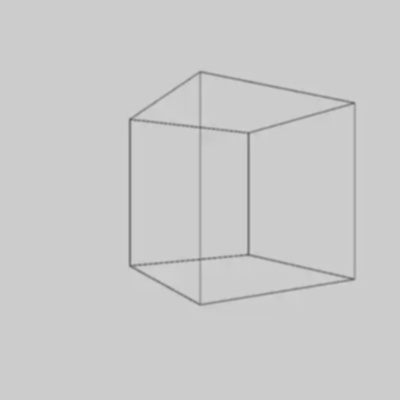
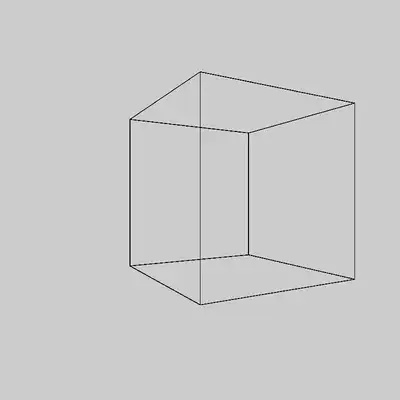
I don't think this method works well at all angles

diff --git a/kuribayashi2019.py b/kuribayashi2019.py
@@ -1,6 +1,7 @@
 import cv2
 import numpy as np
-from sklearn.cluster import AgglomerativeClustering
+from sklearn.cluster import AgglomerativeClustering, KMeans
+from scipy.spatial.distance import pdist, squareform
 
 
 # Step 1: Load the original image
@@ -17,7 +18,7 @@ cv2.imwrite('2_grayscale.jpg', gray_img)
 # cv2.imwrite('3_contrast_enhanced.jpg', equalized_img)
 
 # Apply Gaussian blur to smooth out the noise
-gray = cv2.GaussianBlur(gray_img, (5, 5), 0)
+gray = cv2.GaussianBlur(gray_img, (1, 1), 0)
 cv2.imwrite('3_gaussian_blur.jpg', gray)
 
 # Step 4: Detect edges using the Canny edge detector
@@ -37,16 +38,70 @@ angles = np.array([line_angle(line) for line in lines])
 # Normalize angles to [0, 180) degrees to treat opposite directions the same
 normalized_angles = np.abs(angles) % 180
 
-# Cluster based on normalized angles
-clustering = AgglomerativeClustering(n_clusters=3)  # Assuming 3 main directions: width, height, depth
-labels = clustering.fit_predict(normalized_angles.reshape(-1, 1))
-
 # Map labels to colors (fixed colors for clarity)
-colors = [(0, 0, 255), (255, 0, 0), (0, 255, 0)]  # Red, Blue, Green for width, height, depth
+colors = [
+    (0, 0, 255),   # Blue
+    (255, 0, 0),   # Red
+    (0, 255, 0),   # Green
+    (0, 255, 255), # Cyan
+    (255, 0, 255), # Magenta
+    (255, 255, 0), # Yellow
+    (255, 165, 0), # Orange
+    (128, 0, 128), # Purple
+    (0, 0, 0)      # Black
+]
+
+kmeans = KMeans(n_clusters=3)  # 3 clusters for width, height, depth
+labels = kmeans.fit_predict(angles.reshape(-1, 1))
+
+# Map labels to colors
+colors = [(0, 0, 255), (255, 0, 0), (0, 255, 0)]  # Example: Blue for width, Red for height, Green for depth
 
 # Draw lines on the image with colors based on their cluster
 for line, label in zip(lines, labels):
     x1, y1, x2, y2 = line[0]
-    cv2.line(original_img, (x1, y1), (x2, y2), colors[label], 2)
+    cv2.line(original_img, (x1, y1), (x2, y2), colors[label], 1)
 
 cv2.imwrite('6_lines_first_clustered.jpg', original_img)
+
+# Cluster based on normalized angles
+clustering = AgglomerativeClustering(n_clusters=3)  # Assuming 3 main directions: width, height, depth
+labels = clustering.fit_predict(normalized_angles.reshape(-1, 1))
+
+# Function to calculate the perpendicular distance from a point to a line segment
+def point_to_line_distance(point, line):
+    # Assuming line is given by two points (x1, y1) and (x2, y2)
+    x1, y1, x2, y2 = line
+    x0, y0 = point
+    numerator = abs((y2 - y1) * x0 - (x2 - x1) * y0 + x2 * y1 - y2 * x1)
+    denominator = ((y2 - y1)**2 + (x2 - x1)**2)**0.5
+    if denominator == 0:
+        return 0  # To avoid division by zero
+    return numerator / denominator
+
+# Adjusted function to calculate distances
+def calculate_distances(lines):
+    # Generate all line midpoint coordinates
+    midpoints = [[(line[0][0] + line[0][2]) / 2.0, (line[0][1] + line[0][3]) / 2.0] for line in lines]
+    
+    # Use pdist to calculate the pairwise distances between line midpoints
+    # If you need a custom metric, define it and pass to pdist via the 'metric' argument
+    distance_vector = pdist(midpoints, metric='euclidean')  # Example using Euclidean, replace as needed
+
+    return squareform(distance_vector)
+
+# Assuming 'labels' from the first clustering are available
+# For simplicity, this example does not separate lines by first clustering labels before calculating distances
+distance_matrix = calculate_distances(lines)
+
+# Second clustering based on the custom distance matrix
+clustering2 = AgglomerativeClustering(n_clusters=9, metric="precomputed", linkage="complete")
+labels2 = clustering2.fit_predict(distance_matrix)
+
+# Draw lines on the image with color based on their second cluster
+for line, label2 in zip(lines, labels2):
+    x1, y1, x2, y2 = line[0]
+    color = colors[label2 % len(colors)]  # Choose color based on second label
+    cv2.line(original_img, (x1, y1), (x2, y2), color, 2)
+
+cv2.imwrite('7_lines_second_clustered.jpg', original_img)
